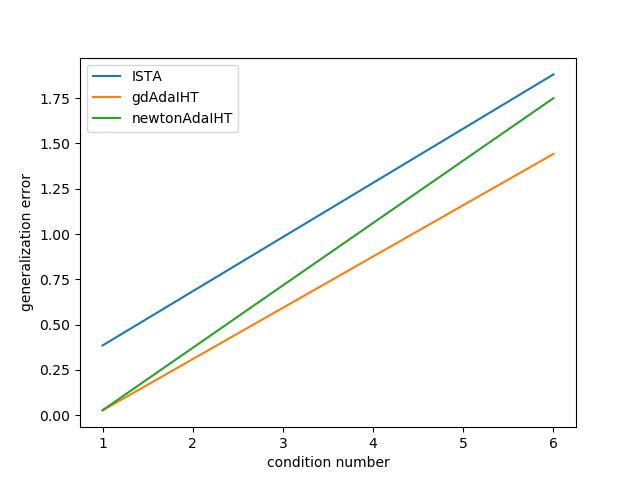
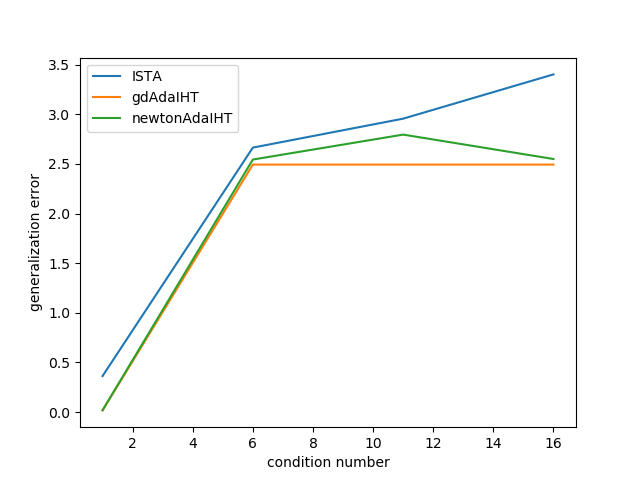
modify condition number simulation

diff --git a/algorithms/gradient_descent.py b/algorithms/gradient_descent.py
@@ -6,7 +6,7 @@ from utils.error import Error
 
 
 class GradientDescent:
-    """Use gradient descent (gd), natural gd or newton method with IHT/HTP to solve sparse linear regression.
+    """Use gradient descent (gd), natural gd, newton or fast newton method with IHT/HTP to solve sparse linear regression.
     """
     def get_gd_step_size(self, H, gd_type: str, inv_sigma):
         """Compute the step size of gradient descent.
@@ -60,7 +60,8 @@ class GradientDescent:
             x = np.insert(x, i, 0)
         return x
 
-    def update_signal_estimation(self, x, y, H, lambda_step, gd_type, iter_index, iter_type):
+    def update_signal_estimation(self, x, y, H, lambda_step, gd_type,
+                                 iter_index, iter_type):
         """Get the estimation by IHT or HTP.
         This step follows the gradient descent step. 
         Update the estimation by pluging coordinates that are smaller than the threshold to zero.
@@ -133,12 +134,14 @@ class GradientDescent:
             x = x + self.get_gradient_descent_step(x, y, H, gd_type, inv_sigma,
                                                    step_size)
             # To update estimation by IHT or HTP.
-            x = self.update_signal_estimation(x, y, H, lambda_step, gd_type, i, iter_type)
+            x = self.update_signal_estimation(x, y, H, lambda_step, gd_type, i,
+                                              iter_type)
             if errors_needed:
                 gener_errors[i] = Error().get_gener_error(
                     x_original, x, SIGMA_half)
             # update threshold
-            if not (gd_type == constants.FAST_NEWTON_NAME and i % constants.FAST_NEWTON_NUM_GD == 0):
+            if not (gd_type == constants.FAST_NEWTON_NAME
+                    and i % constants.FAST_NEWTON_NUM_GD == 0):
                 lambda_step *= 0.95
             if lambda_step < final_threshold:
                 lambda_step = final_threshold

diff --git a/change_condition_number.py b/change_condition_number.py
@@ -60,13 +60,13 @@ class ChangeConditionNumber:
                                              kappa).generate_data()
         algos_map = dict()
         for algo_name in self.iterative_threshold_methods:
-            _, _, gener_error = IterativeThresholdMethods().get_errors_by_cv(
+            _, best_lambda, gener_error = IterativeThresholdMethods().get_errors_by_cv(
                 self.x_original, y, H, self.num_iter, self.SIGMA_half,
                 algo_name, False)
             # To add {algo_name: {kappa, final_error}} key-value-pair to algos_map.
             algos_map = self._update_algos_map(algos_map, algo_name, kappa,
                                                gener_error[-1])
-            print(algo_name, " error ", gener_error[-1])
+            print(algo_name, best_lambda)
         for gd_type in self.gd_types:
             for iter_type in self.iter_types:
                 _, _, gener_error = GradientDescent().get_errors_by_cv(
@@ -84,7 +84,7 @@ class ChangeConditionNumber:
         algos_map = {}
         for _ in range(self.steps):  # Run several experiments
             pool = mp.Pool(mp.cpu_count())
-            pool_results = pool.map(self.run_one_experiment, np.arange(1, 40, 5), 1)
+            pool_results = pool.map(self.run_one_experiment, np.arange(1, 51, 10), 1)
             for map_result in pool_results:
                 for algo_name in map_result:
                     for kappa in map_result[algo_name]:
@@ -108,7 +108,7 @@ class ChangeConditionNumber:
         plt.legend()
         plt.savefig(
             os.path.dirname(os.path.abspath(__file__)) +
-            "/figures/condition number/comparison by change of condition number0"
+            "/figures/condition number/comparison by change of condition number"
         )
         plt.clf()
 
